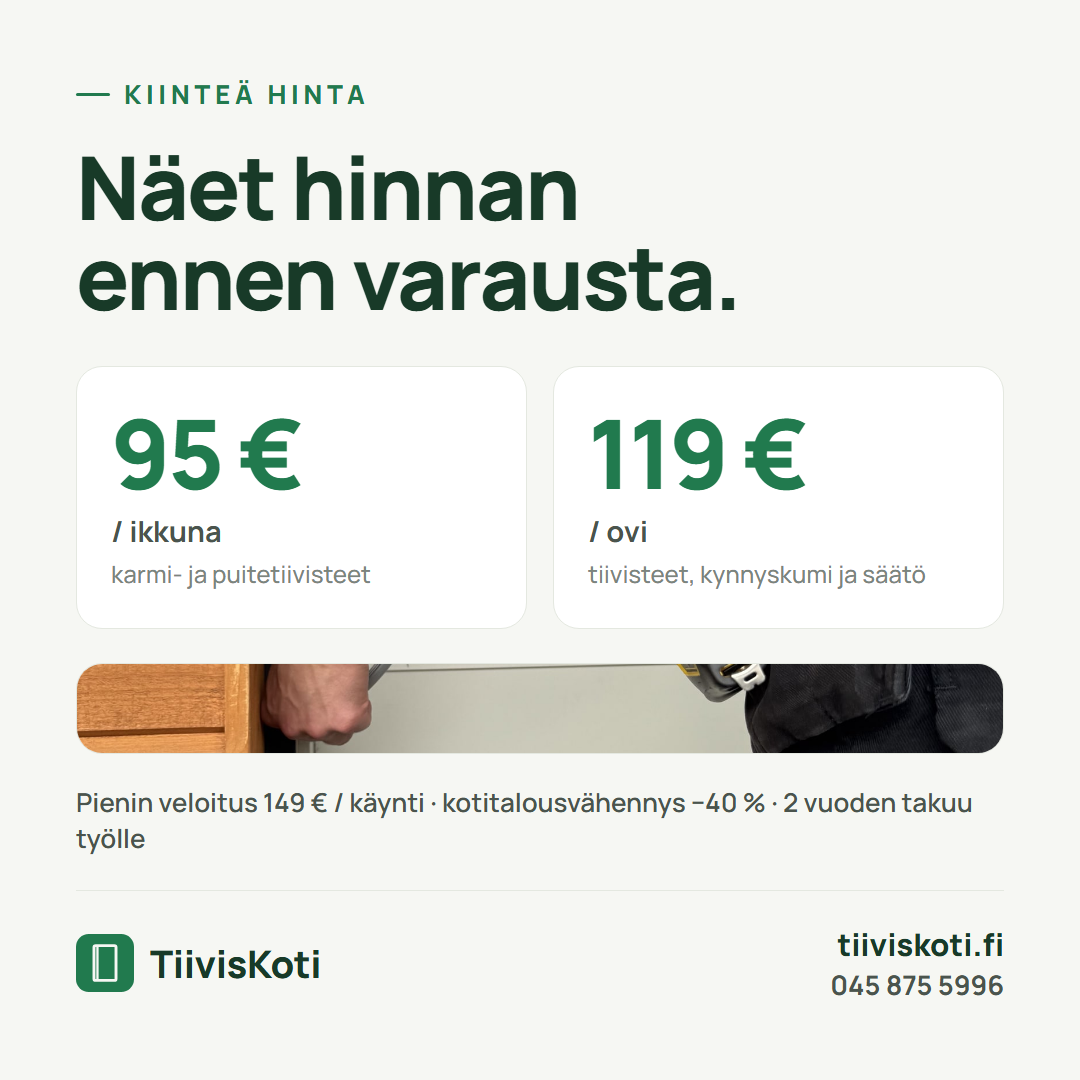
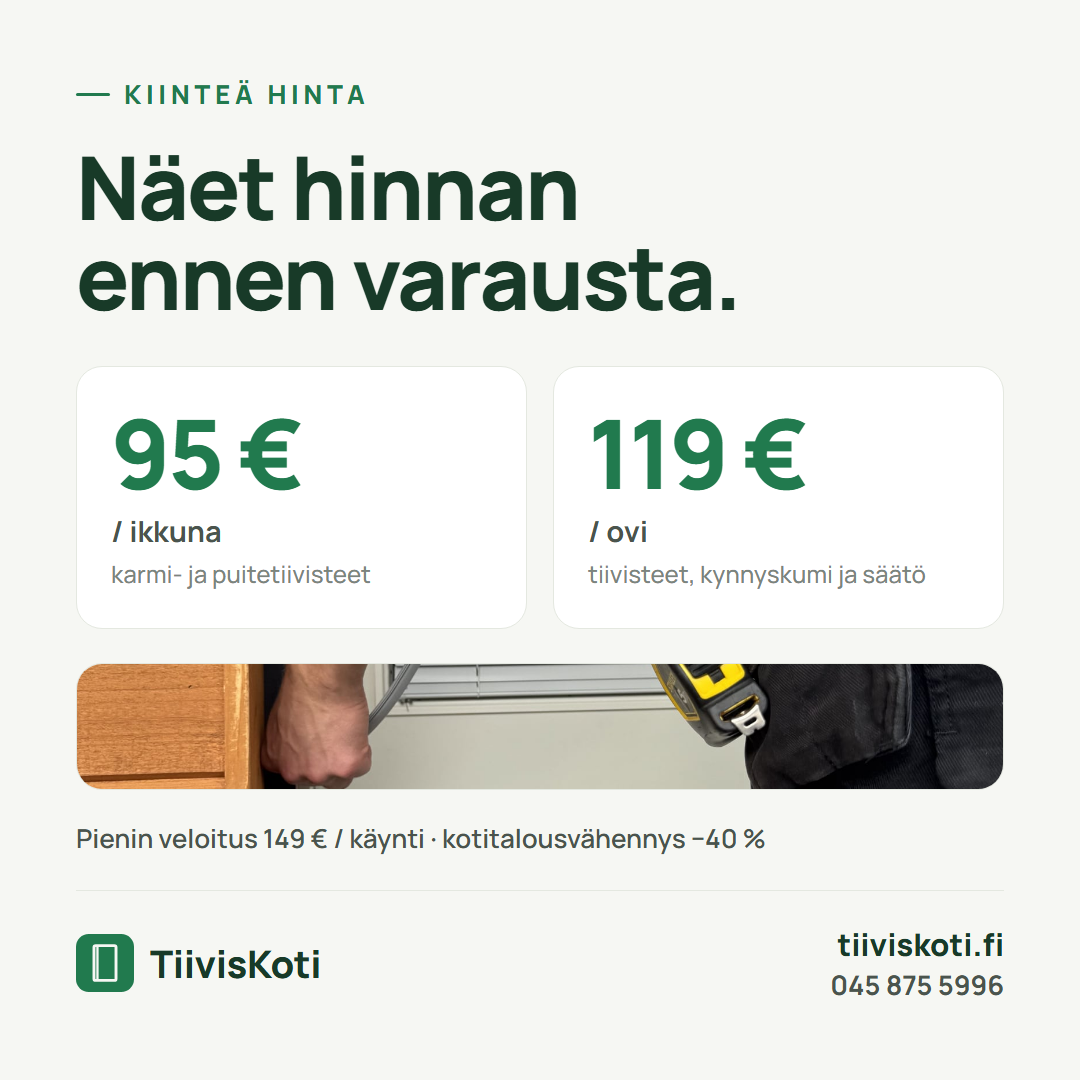
Korjaa FB-hintamainoksen kuvakaista
- kuvalähde print-ovet.jpg (poistettu) -> img/ulko-ovet.jpg
- kaista 230 -> 310 px, jotta kuva ei näytä litistetyltä
- pikkuteksti yhdelle riville

Changed region(s): [[0.0611, 0.6111, 0.9472, 0.7944]]

diff --git a/tiiviskoti/brand/ads/fb-mainokset.html b/tiiviskoti/brand/ads/fb-mainokset.html
@@ -67,7 +67,7 @@ body{background:#8f9a92;font-family:Manrope,system-ui,sans-serif;display:flex;fl
 .price b{display:block;font-size:96px;font-weight:800;color:var(--green);letter-spacing:-.03em;line-height:1}
 .price span{display:block;font-size:29px;font-weight:700;color:var(--text);margin-top:10px}
 .price small{display:block;font-size:24px;font-weight:500;color:#7B857D;margin-top:6px}
-.strip{height:230px;border-radius:26px;overflow:hidden;margin-bottom:30px;border:1px solid var(--line)}
+.strip{height:310px;border-radius:26px;overflow:hidden;margin-bottom:30px;border:1px solid var(--line)}
 .strip img{width:100%;height:100%;object-fit:cover}
 .fineprint{font-size:26px;font-weight:600;color:var(--text);margin-bottom:34px}
 .ad-hinta .foot{border-top:1px solid var(--line);padding-top:32px}
@@ -115,8 +115,8 @@ body{background:#8f9a92;font-family:Manrope,system-ui,sans-serif;display:flex;fl
     <div class="price"><b>95 €</b><span>/ ikkuna</span><small>karmi- ja puitetiivisteet</small></div>
     <div class="price"><b>119 €</b><span>/ ovi</span><small>tiivisteet, kynnyskumi ja säätö</small></div>
   </div>
-  <div class="strip"><img src="../../print/print-ovet.jpg" alt=""></div>
-  <p class="fineprint">Pienin veloitus 149 € / käynti · kotitalousvähennys −40 % · 2 vuoden takuu työlle</p>
+  <div class="strip"><img src="../../img/ulko-ovet.jpg" alt=""></div>
+  <p class="fineprint">Pienin veloitus 149 € / käynti · kotitalousvähennys −40 %</p>
   <div class="foot">
     <div class="brandline">
       <svg viewBox="0 0 100 100"><rect width="100" height="100" rx="22" fill="#217A4E"/><rect x="31" y="20" width="38" height="60" rx="3" fill="none" stroke="#F6F7F3" stroke-width="5"/><rect x="35" y="20" width="4" height="60" fill="#F6F7F3"/></svg>
